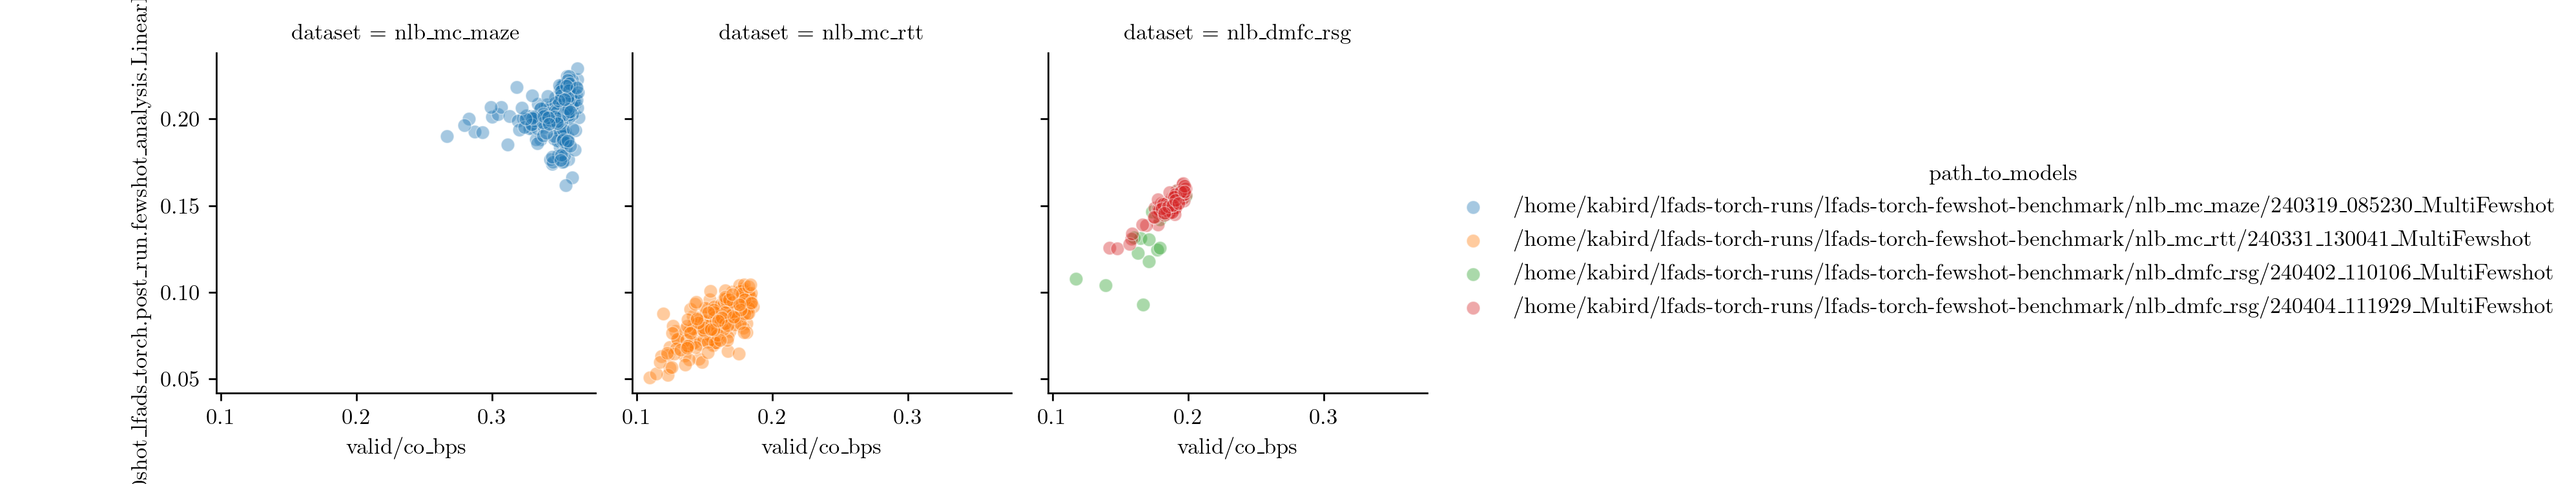
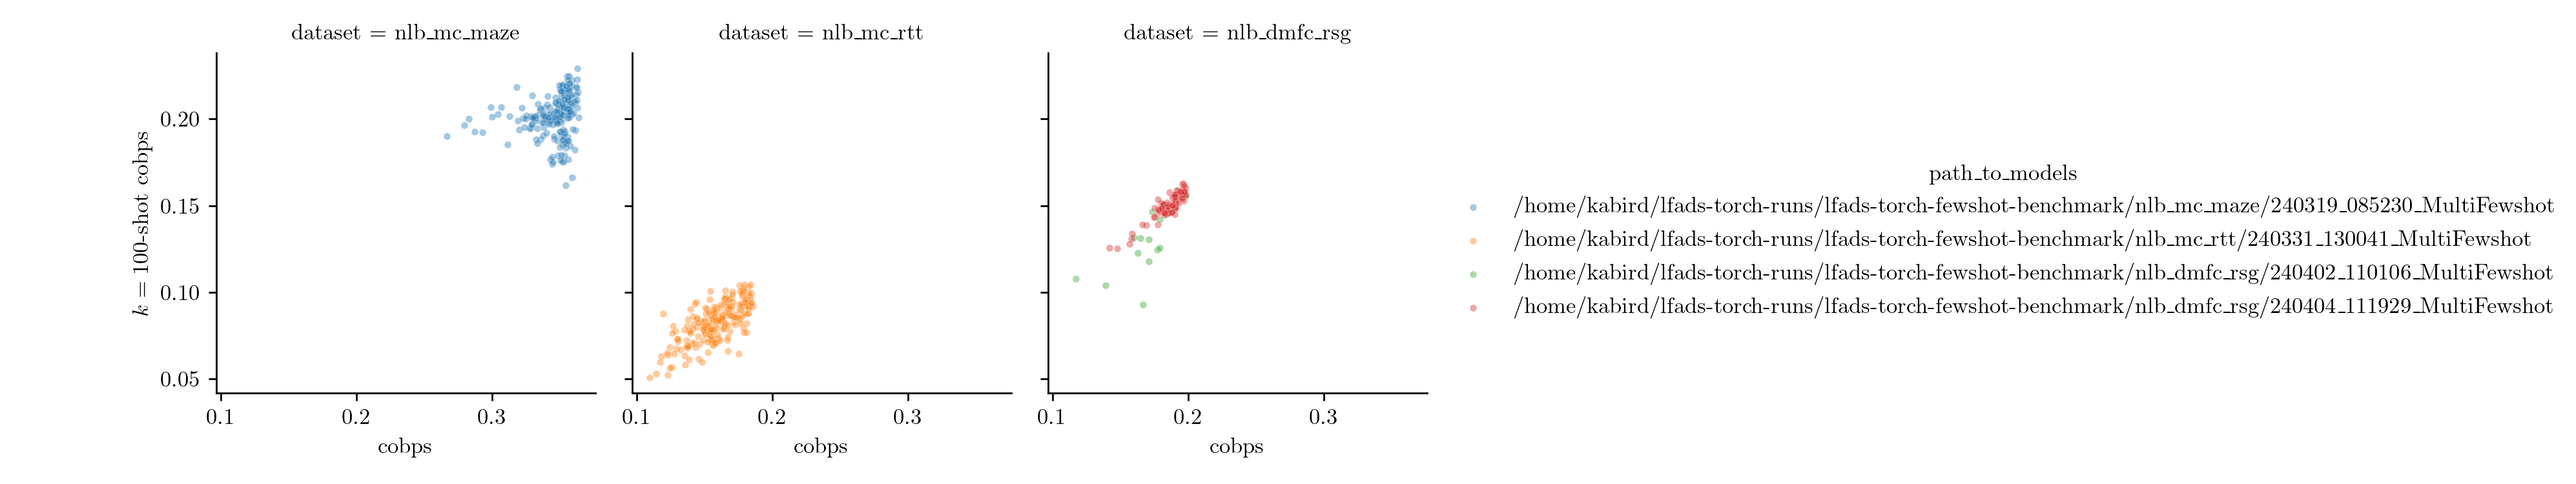
new k shot vs co_bps plot

diff --git a/scripts/plot_kshot_and_cobps_all.py b/scripts/plot_kshot_and_cobps_all.py
@@ -119,8 +119,12 @@ def main():
     # ax.set_title('Pearsonr:{:1.2f}'.format(r))
 
     g = sns.FacetGrid(all_model_data, col="dataset", hue='path_to_models')
-    g.map(sns.scatterplot, 'valid/co_bps','post_run/100shot_lfads_torch.post_run.fewshot_analysis.LinearLightning_co_bps', alpha=0.4)
+    g.map(sns.scatterplot, 'valid/co_bps',f'post_run/{100}shot_lfads_torch.post_run.fewshot_analysis.LinearLightning_co_bps', alpha=0.4, s=10)
     g.add_legend()
+    for ax in g.axes[:,0]:
+        ax.set_ylabel(rf'$k={100}$-shot cobps')
+    for ax in g.axes[-1,:]:
+        ax.set_xlabel(rf'cobps')
     fig = g.figure
     
     fig.savefig(os.path.join('/home/kabird/lfads-torch-fewshot-benchmark/plots', 'co_bps_vs_100shot_heldout.png'), dpi=250)
